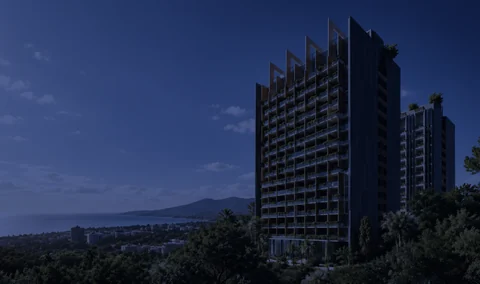
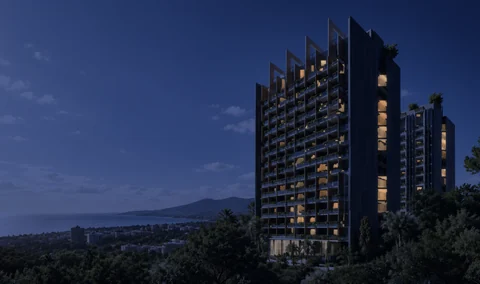
Light the Reverance windows in the night hero photo
About half the windows and the lobby now glow warm in the night version
of the two-tower render, painted only into the render's own dark glazing.

Claude-Session: https://claude.ai/code/session_01HeqTb6aeL5HVHXqpQvYQAi

diff --git a/AGENTS.md b/AGENTS.md
@@ -39,7 +39,7 @@ Before making substantial visual changes, use the Product Design plugin's `get-c
 
 - October 14 page ending (Klem: "this page can't end with blue"; "We need to add also Contact"; supersedes the September 24 footer rule and the floating Site info disclosure): every public page, Selected Opportunities included (after the Residence Explorer), ends with the neutral `SiteFooter` in `src/components/Privacy.jsx` (`site-footer.css`): Contact (eyebrow, title, line, AIXCO's verified email info@aixco.global as mailto and the office Grüngasse 16, 1050 Wien, Austria; no phone number and no form, since none is verified and the site has no working form destination on Vercel), then the logo, privacy, cookie settings and admin links. Paper and ink by day and afternoon, true black at night; no blue band may be the last section (the Insights FAQ is on paper). CONTACT is the last item of the desktop nav and the menu; it scrolls to and focuses `#contact` on the current page, and a `#contact` link opens the homepage there. Copy in `src/contact-copy.js`.
 
-- October 14 Project Reverance page (Klem): the hero is family `reverance-towers`, the official two-tower render (`public/assets/projects/reverance-tower-2985.webp`, also AIXCO.Global's current-project image) with whole-image colour grades for afternoon and night (nothing added or repainted; sources in /mnt/project-files/klem-oct14/reverance-towers/). The photo starts under the header and fades into a band of its own sky colour so the crowns are never behind the navigation; desktop copy sits top-left on the sky; below 900px and on portrait screens the header, the whole two-tower view and the copy stack. The public GOLDEN PREMIUM APARTMENTS grid (floors 13-14 text, 28/22/6 summary, unit cards with prices) is removed because it belongs in the broker system; its data, the explorer's Golden labels, calculators and the PDF tool stay. In its place, PROJECT FACTS from AIXCO.Global's "Current project" section (checked 14 October 2026): Batumi focus, entry from €45,000, reservation from €5,000 (never confuse the two), 100% foreign ownership, bank financing min. 60%, approx. 12% net rental yield (not guaranteed), regular and Golden Premium residences in two buildings, target completion July 2028, calculator choice and availability check before reservation, AIXCO's transparent ISO-certified process. Then Klem's EXCLUSIVE PURCHASE BENEFIT block, English word for word (20/30/40% down payment → 1/2/3% discount), three tiers that stack below 700px, no calculator changes. Copy in `src/reverance-project-copy.js`.
+- October 14 Project Reverance page (Klem): the hero is family `reverance-towers`, the official two-tower render (`public/assets/projects/reverance-tower-2985.webp`, also AIXCO.Global's current-project image) with whole-image colour grades for afternoon and night; at night (Kemo, 14 October 2026: "as for windows can you somehow add it?") about half the windows and the lobby glow warm, painted only into the render's own dark glazing by the scripts beside the sources, with the geometry unchanged (sources in /mnt/project-files/klem-oct14/reverance-towers/). The photo starts under the header and fades into a band of its own sky colour so the crowns are never behind the navigation; desktop copy sits top-left on the sky; below 900px and on portrait screens the header, the whole two-tower view and the copy stack. The public GOLDEN PREMIUM APARTMENTS grid (floors 13-14 text, 28/22/6 summary, unit cards with prices) is removed because it belongs in the broker system; its data, the explorer's Golden labels, calculators and the PDF tool stay. In its place, PROJECT FACTS from AIXCO.Global's "Current project" section (checked 14 October 2026): Batumi focus, entry from €45,000, reservation from €5,000 (never confuse the two), 100% foreign ownership, bank financing min. 60%, approx. 12% net rental yield (not guaranteed), regular and Golden Premium residences in two buildings, target completion July 2028, calculator choice and availability check before reservation, AIXCO's transparent ISO-certified process. Then Klem's EXCLUSIVE PURCHASE BENEFIT block, English word for word (20/30/40% down payment → 1/2/3% discount), three tiers that stack below 700px, no calculator changes. Copy in `src/reverance-project-copy.js`.
 
 - September 24 building switch: selecting A or B should visibly and smoothly orbit the camera to that block, in either direction, while preserving the accepted final views and immediate manual-orbit takeover. Honor reduced-motion preferences.
 
